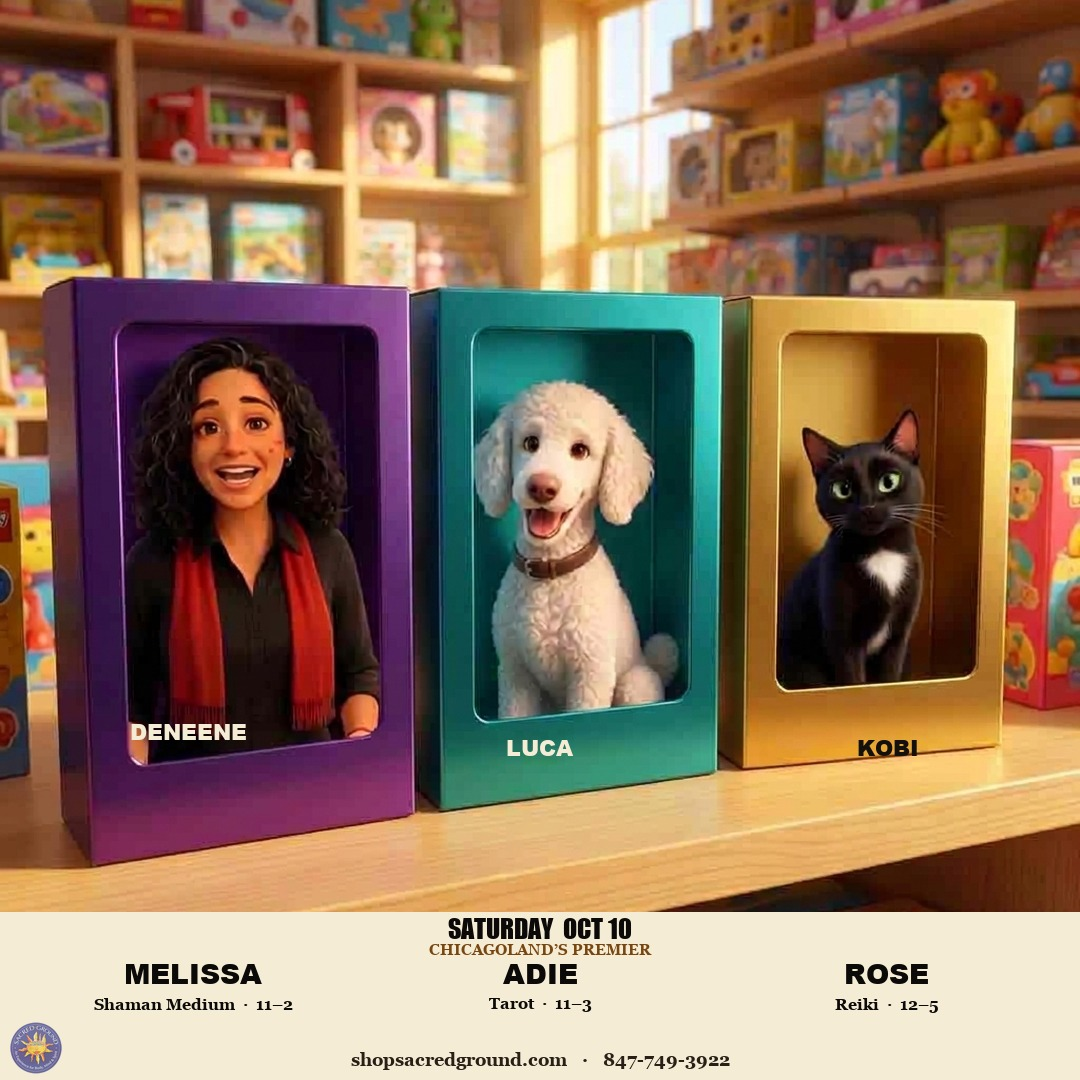
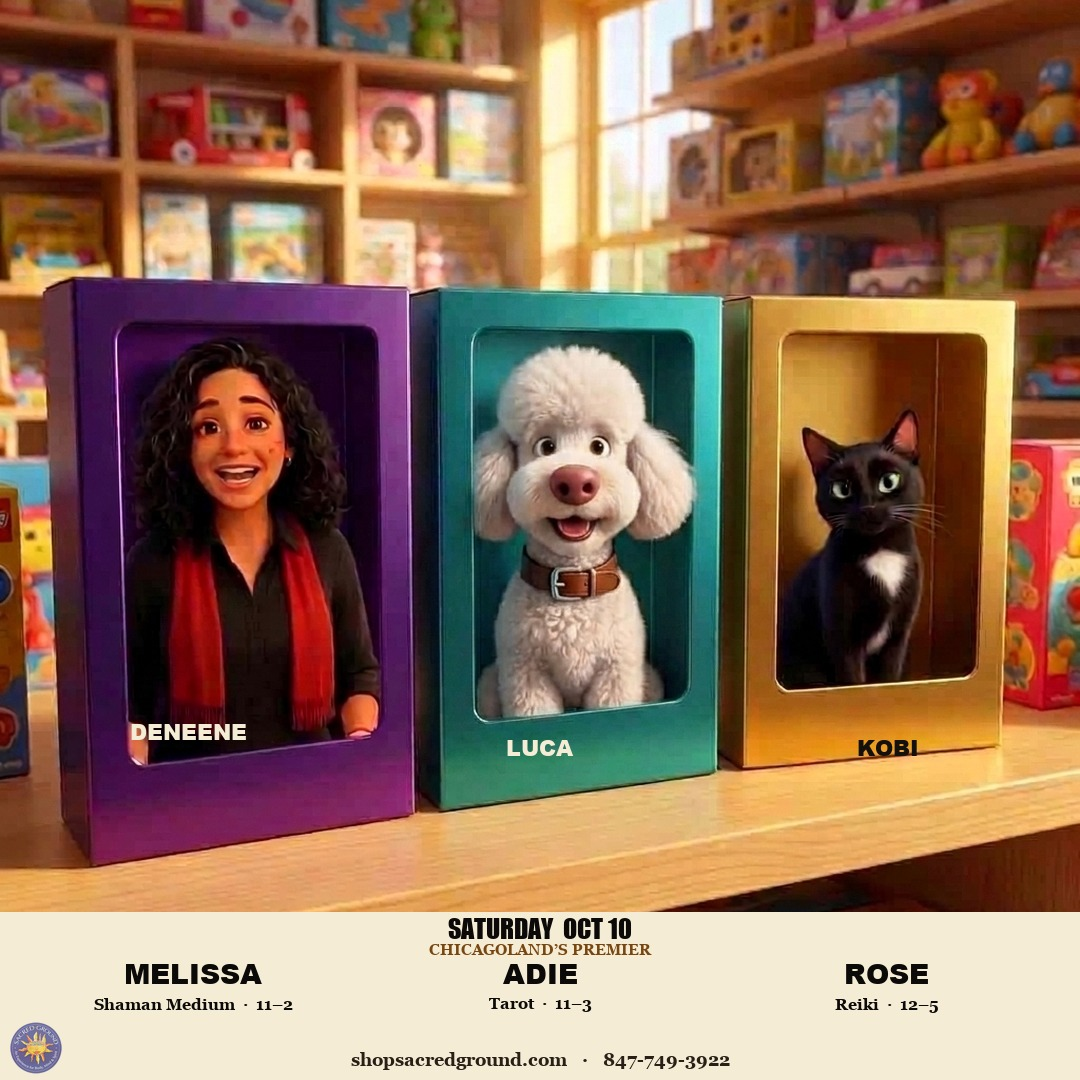
Put official Luca back in the Oct 10 collector boxes; drop the Marvel cards.

diff --git a/assets/_week_show/oct_ideas/compose_oct10_crew.py b/assets/_week_show/oct_ideas/compose_oct10_crew.py
@@ -6,7 +6,7 @@ from pathlib import Path
 from PIL import Image, ImageDraw, ImageFont
 
 ROOT = Path(__file__).resolve().parents[3]
-ART = ROOT / "assets/_week_show/oct_nights/oct10-crew-boxes-v7-face.jpg"
+ART = ROOT / "assets/_week_show/oct_nights/oct10-crew-boxes-v11-luca.jpg"
 OUT = ROOT / "assets/sg-morning-flyer-2026-10-10.jpg"
 DESK = Path.home() / "Desktop" / "sg-civilization-nights" / "sg-morning-flyer-2026-10-10.jpg"
 LOGO = ROOT / "config/brand/sacred-ground-logo-circle-transparent.png"

diff --git a/WORK-LOG.md b/WORK-LOG.md
@@ -1,3 +1,9 @@
+## 2026-09-26 — Oct 10 back to boxes; official Luca
+
+Founder: keep the first collector boxes, no action figures, use the same
+Luca from Galactic Adventurers. Art **28737**. Official Deneene face +
+white Luca (wide eyes, buckle collar). Still `do_not_publish`.
+
 ## 2026-09-26 — Oct 10 official face + Marvel spoof
 
 Founder: stay with Galactic Adventurers face; do the first boxes again;
